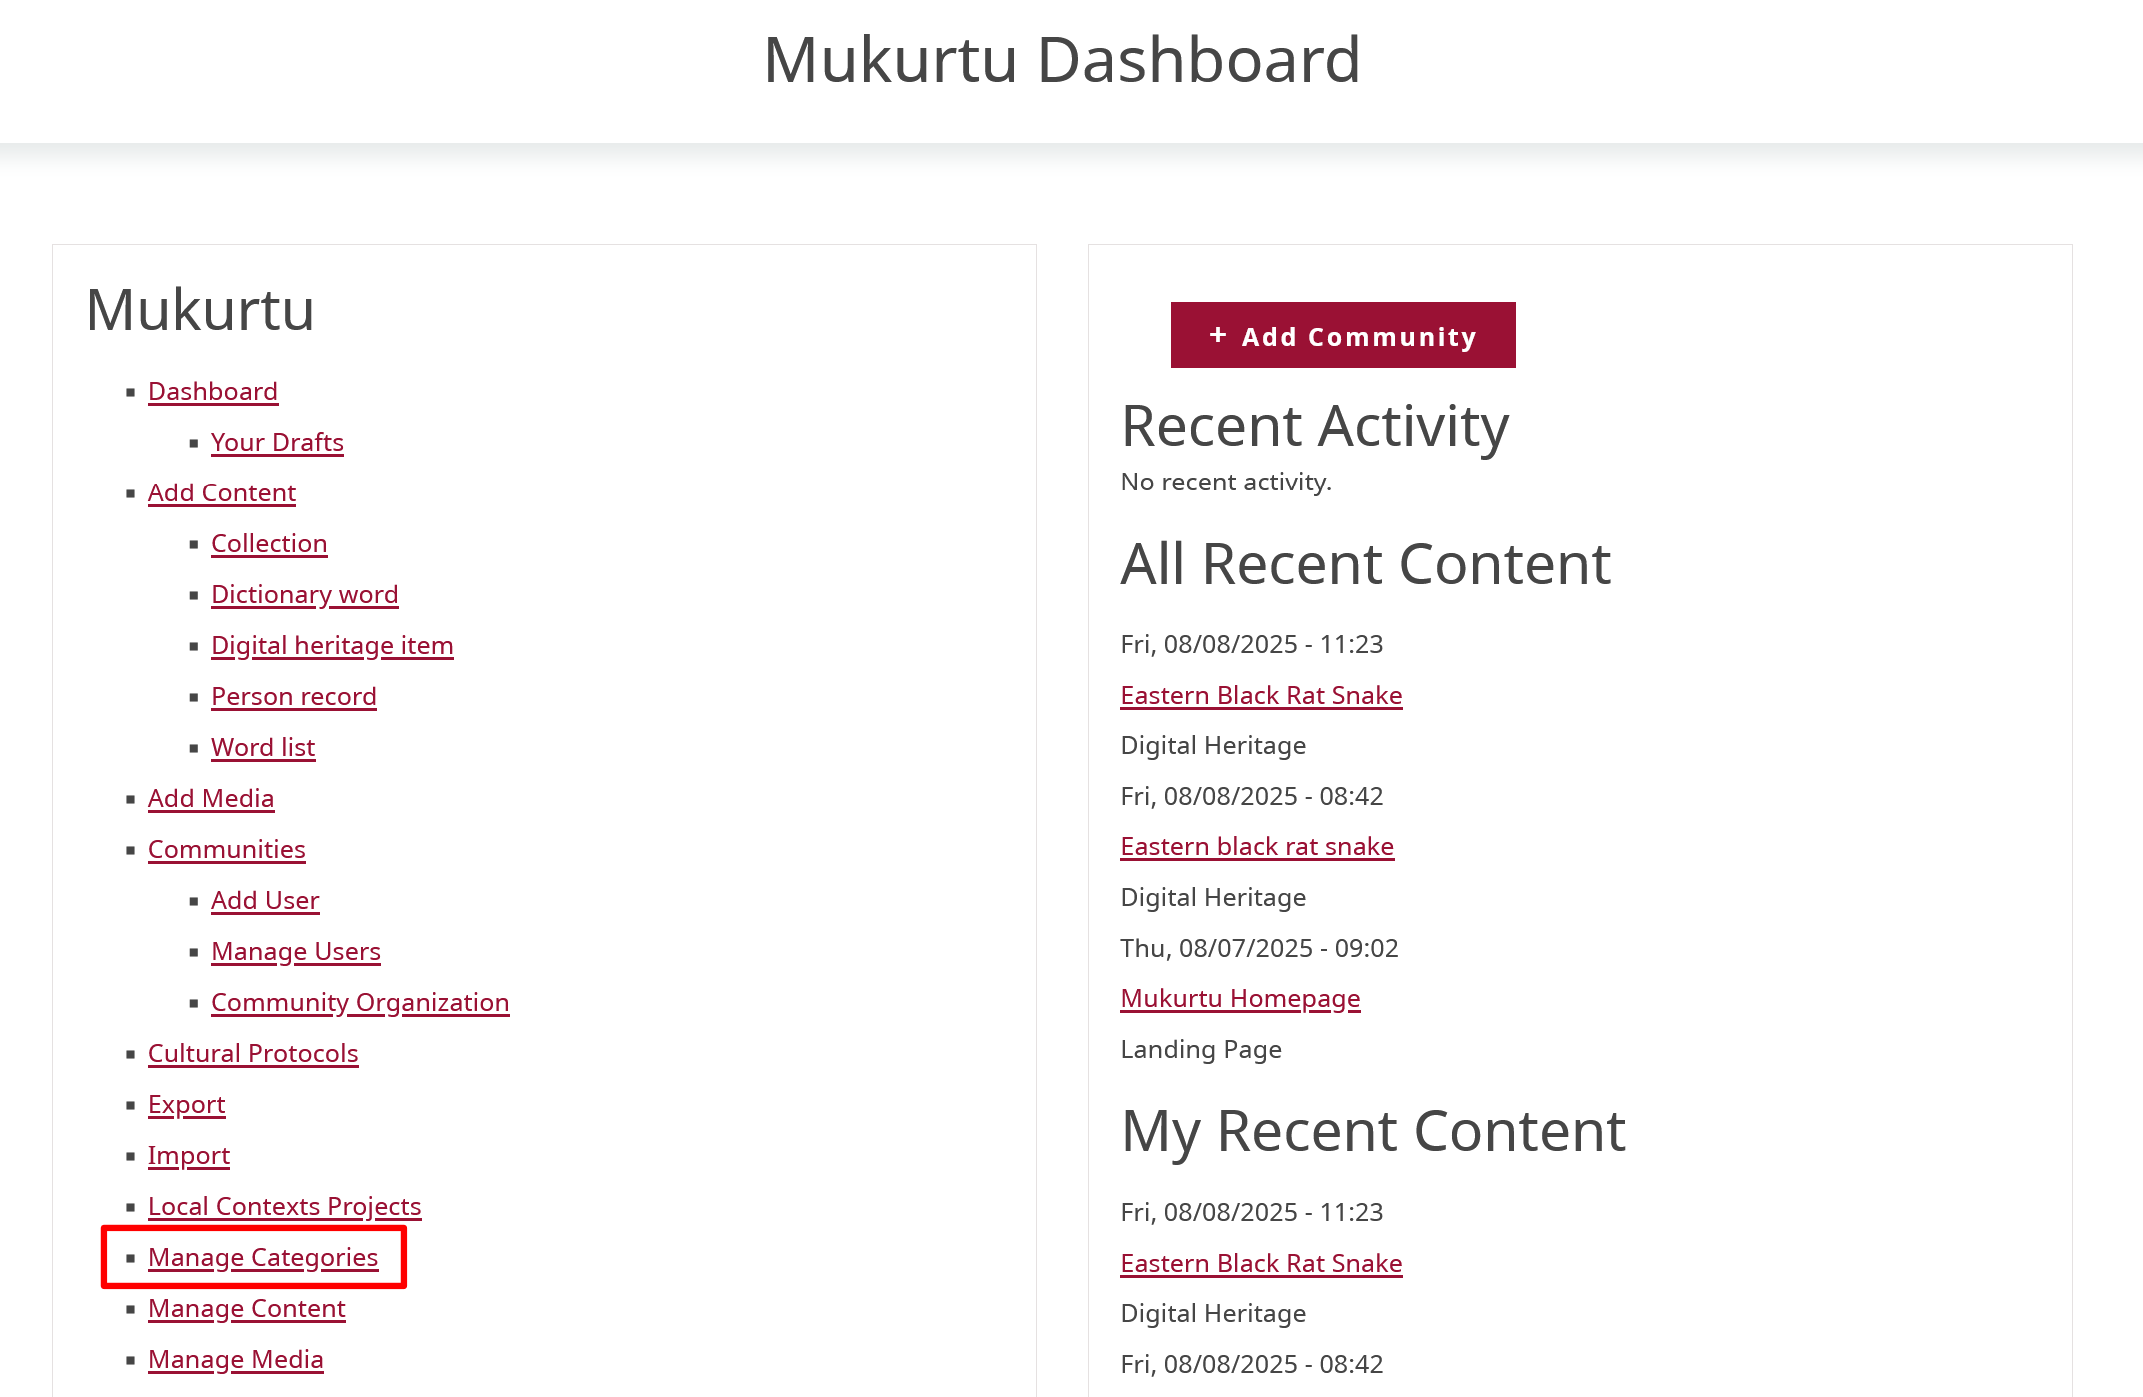
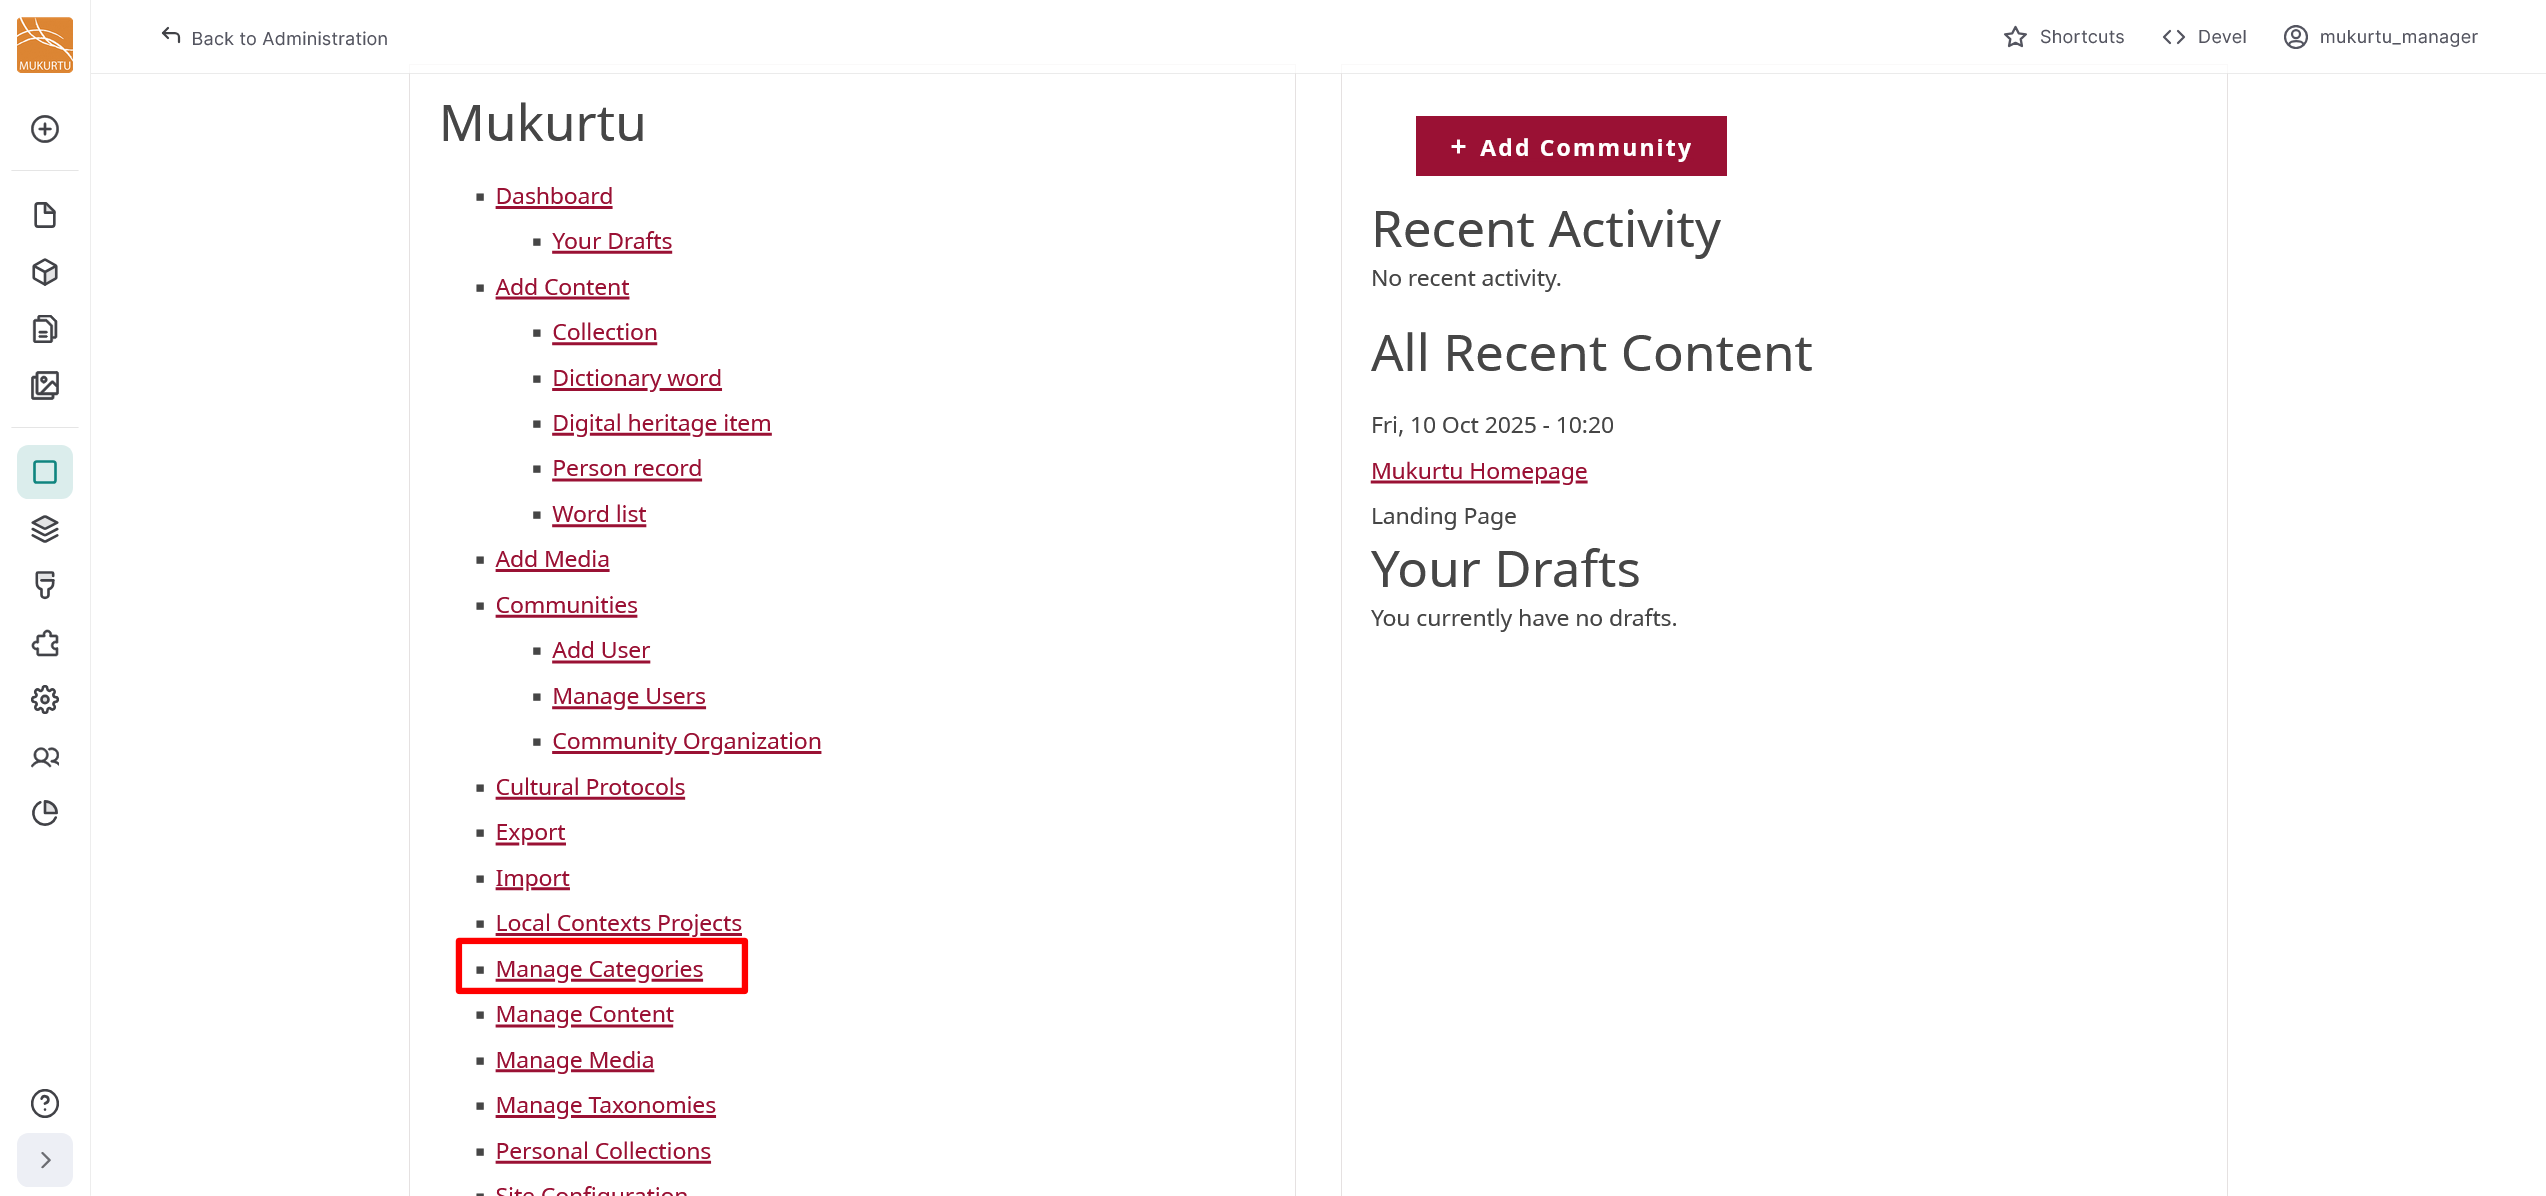
Updated categories articles
Updated all the categories articles, replaced screenshots to reflect the new theme, and changed to reflect the renamed Mukurtu manager role.

diff --git a/docs/3Cs/CategoryTaxonomy.md b/docs/3Cs/CategoryTaxonomy.md
@@ -18,12 +18,12 @@ Categories are high-level descriptive terms that help users browse and discover 
 1. From your dashboard, select **Manage Categories**. 
 2. Select the **Edit** link for the category you want to make changes to. 
 
-    ![Screenshot of the Category taxonomy page with Edit highlighted.](../_embeds/placeholderscreenshot.png)
+    ![Screenshot of the Category taxonomy page with Edit highlighted.](../_embeds/Manage-Categories-Mukurtu1.png)
 
 3. Edit your *Category Name*, *Description*, or **Thumbnail Image**, then select "Save".
 
-!!! tip
-    Cultural protocols are required for category thumbnails. For more information on getting started with cultural protocols, visit [Create a Community and Initial Cultural Protocol](CreateACommunityAndInitialCulturalProtocol.md).
+    !!! tip
+        Cultural protocols are required for category thumbnails. For more information on getting started with cultural protocols, visit [Create a Community and Initial Cultural Protocol](CreateACommunityAndInitialCulturalProtocol.md).
 
 ## Merge categories
 
@@ -42,7 +42,7 @@ Follow the instructions to merge your categories.
 3. Navigate to the **Merge** tab.
 4. Select the checkbox by the terms you want to merge into a new or existing term. 
 
-    ![Screenshot of the merge category terms page with two terms to merge selected.](../_embeds/categorytaxonomy1.png)
+    ![Screenshot of the merge category terms page with two terms to merge selected.](../_embeds/Merge-Category-terms-Mukurtu1.png)
 
     !!! tip
         To merge multiple terms into a new target term, select all terms to merge here. The new target term will be created on the next page.
@@ -53,11 +53,11 @@ Follow the instructions to merge your categories.
 
     - To merge the selected terms into a new target term, enter it in the "New term" field. 
 
-    ![Screenshot of the select target term page with New Category entered in the new term field as an example.](../_embeds/categorytaxonomy2.png)
+    ![Screenshot of the select target term page with New Category entered in the new term field as an example.](../_embeds/Merge-Category-terms-Mukurtu2.png)
     
     - To merge the selected term(s) into an existing target term, select it from the "Existing term" list.
 
-    ![Screenshot of the select target term page with Category 1 selected from the existing category dropdown.](../_embeds/categorytaxonomy3.png)
+    ![Screenshot of the select target term page with Category 1 selected from the existing category dropdown.](../_embeds/Merge-Category-terms-Mukurtu3.png)
 
 7. Select the "Merge terms" button. This will take you to a confirmation page. 
 8. Review the terms to be merged and the target term on the confirmation page. If all the information is correct, select the "Confirm merge" button.
@@ -65,10 +65,10 @@ Follow the instructions to merge your categories.
     !!! warning
         This action cannot be undone. 
 
-    ![Screenshot of the term merge confirmation page showing the target term and terms to be merged.](../_embeds/categorytaxonomy4.png)
+    ![Screenshot of the term merge confirmation page showing the target term and terms to be merged.](../_embeds/Merge-Category-terms-Mukurtu4.png)
 
 9. After you confirm your merge, you will see a status message that you have successfully merge your terms into your target category.
 
-![Screenshot of the successful merge confirmation message.](../_embeds/categorytaxonomy5.png)
+    ![Screenshot of the successful merge confirmation message.](../_embeds/Merge-Category-terms-Mukurtu5.png)
 
 

diff --git a/docs/3Cs/UnderstandingCategories.md b/docs/3Cs/UnderstandingCategories.md
@@ -1,17 +1,18 @@
 ---
 tags: 
     - communities, cultural protocols, and categories
+    - categories
     - taxonomy
 ---
 
 # Understanding Categories
 
 !!! roles "User roles"
-    Mukurtu Administrators
+    Mukurtu manager
 
-Categories are high-level descriptive terms that help users discover digital heritage items. All communities on the site share the same set of categories.
+Categories are high-level descriptive terms that help users browse and discover digital heritage items. All communities on the site share the same set of categories.
 
-Categories will reflect the broad scope of content on the site. For example, a large site that includes a wide range of archival, museum, library, and language materials will likely need more, or broader, categories than a small site focused on a single collection. Digital heritage items must belong to one or more category. 
+Categories reflect the broad scope of content on the site. For example, a large site that includes a wide range of archival, museum, library, and language materials will likely need more or broader categories than a small site focused on a single collection. Digital heritage items must belong to one or more category. 
 
 If the categories are too broad they won’t help users narrow down their search, but if they are too narrow they may not represent the scope of the site. You can ensure that the category terms you choose make sense to your users by avoiding jargon and overly technical terms. 
 
@@ -25,6 +26,6 @@ The [Plateau Peoples' Web Portal](https://plateauportal.libraries.wsu.edu/catego
 [![Plateau Peoples' Web Portal categories page.](../_embeds/Categories-understand1.png)](https://plateauportal.libraries.wsu.edu/categories-browse)
 
 - [Gather: State Library of New South Wales](https://gather.sl.nsw.gov.au/):
-Gather is a repository whose stated goal is to connect Aboriginal communities with collections and stories from the State Library of New South Wales. They use the categories function in a unique manner, highlighting their four categories by working with Jake Duczynsky, a Gamilaraay and Mandandanji artist and animator to design animated category icons.
+Gather is a repository whose stated goal is to connect Aboriginal communities with collections and stories from the State Library of New South Wales. They use the categories function in a unique manner, highlighting their four categories by working with Jake Duczynsky, a Gamilaraay and Mandandanji artist and animator, to design animated category icons.
 
 [![Gather's categories page.](../_embeds/Categories-understand2.png)](https://gather.sl.nsw.gov.au/)

diff --git a/docs/3Cs/CreateCategories.md b/docs/3Cs/CreateCategories.md
@@ -1,27 +1,25 @@
 ---
 tags: 
     - communities, cultural protocols, and categories
+    - categories
     - taxonomy
     - getting started
 ---
 # Create Categories
 
 !!! roles "User role"
-    Mukurtu administrators
+    Mukurtu manager
 
-Categories are high-level descriptive terms that help Mukurtu users discover digital heritage items. For more information about how to plan categories see [Understanding Categories](UnderstandingCategories.md). For more information on managing categories visit [Manage Categories](CategoryTaxonomy.md).
+Categories are high-level descriptive terms that help Mukurtu users browse and discover digital heritage items. For more information about how to plan categories see [Understanding Categories](UnderstandingCategories.md). For more information on managing categories visit [Manage Categories](CategoryTaxonomy.md).
 
 You can get to the Create Categories through the top-level Add Component menu or through the Dashboard. Follow the instructions below to create a category.
 
 ## From the Add Component menu
 
 1. Hover over the **Add Component** menu. 
-
-    ![Screenshot of the Add Component dropdown menu highlighted](../_embeds/Categoryupdate1.png)
-
 2. Select the **+Category** link. 
 
-    ![Screenshot of the +Category menu option highlighted](../_embeds/Categoryupdate2.png)
+    ![Screenshot of the +Category menu option highlighted](../_embeds/Categoryupdate1.PNG)
 
 ## From the Dashboard
 
@@ -42,7 +40,7 @@ You can get to the Create Categories through the top-level Add Component menu or
 
     !!! requirement "Allowed file types are .png, .gif, .jpg, or .jpeg."
 
-    ![Screenshot of the Add or select media pop-up menu.](../_embeds/Categoryupdate8.PNG)
+    ![Screenshot of the Add or select media pop-up menu.](../_embeds/Categorythumbnail.png)
 
     - Select **Insert selected** to apply the image to your category as a thumbnail. 
 
